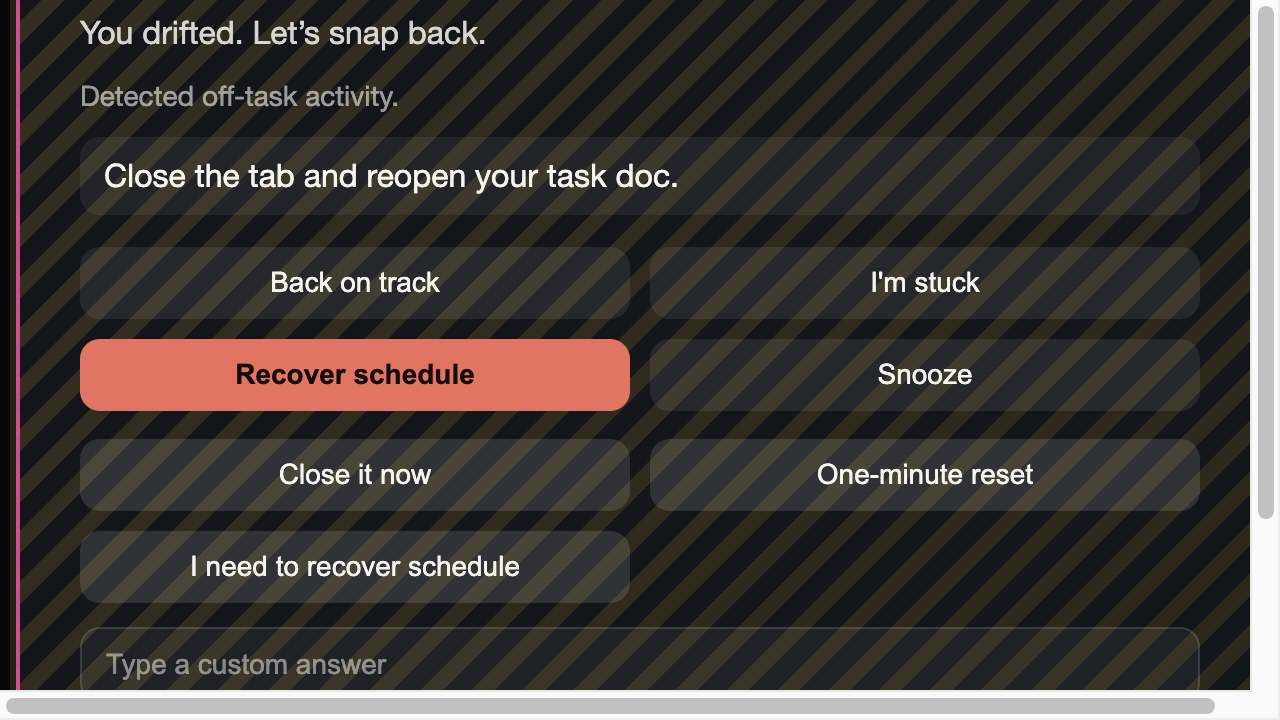
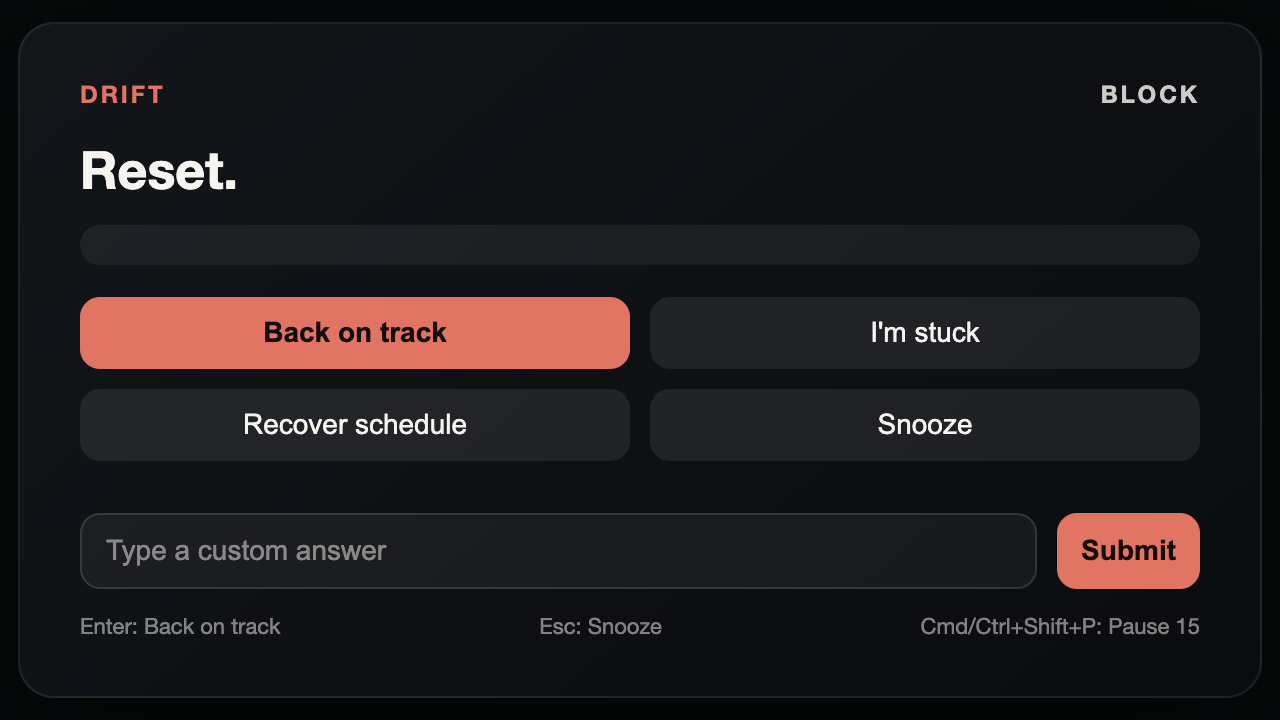
overlay: make Enter hint + primary action reflect DRIFT_PERSIST

diff --git a/overlay/overlay.js b/overlay/overlay.js
@@ -12,6 +12,8 @@ const alignInput = document.getElementById("alignInput");
 const alignText = document.getElementById("alignText");
 const alignSubmit = document.getElementById("alignSubmit");
 
+const enterHint = document.getElementById("enterHint");
+
 const backBtn = document.getElementById("backBtn");
 const stuckBtn = document.getElementById("stuckBtn");
 const recoverBtn = document.getElementById("recoverBtn");
@@ -33,10 +35,14 @@ function updatePrimaryLabel(payload) {
   backBtn.textContent = "Back on track";
 }
 
-function updateEventLabel(payload) {
+function getEventType(payload) {
   // Prefer the originating event type when available (used for visual pattern-breaks like DRIFT_PERSIST).
   const raw = payload?.source_event_type || payload?.event_type || payload?.type || "";
-  const eventType = String(raw).toUpperCase();
+  return String(raw).toUpperCase();
+}
+
+function updateEventLabel(payload) {
+  const eventType = getEventType(payload);
   overlay.dataset.eventType = eventType;
 
   if (!eventType) {
